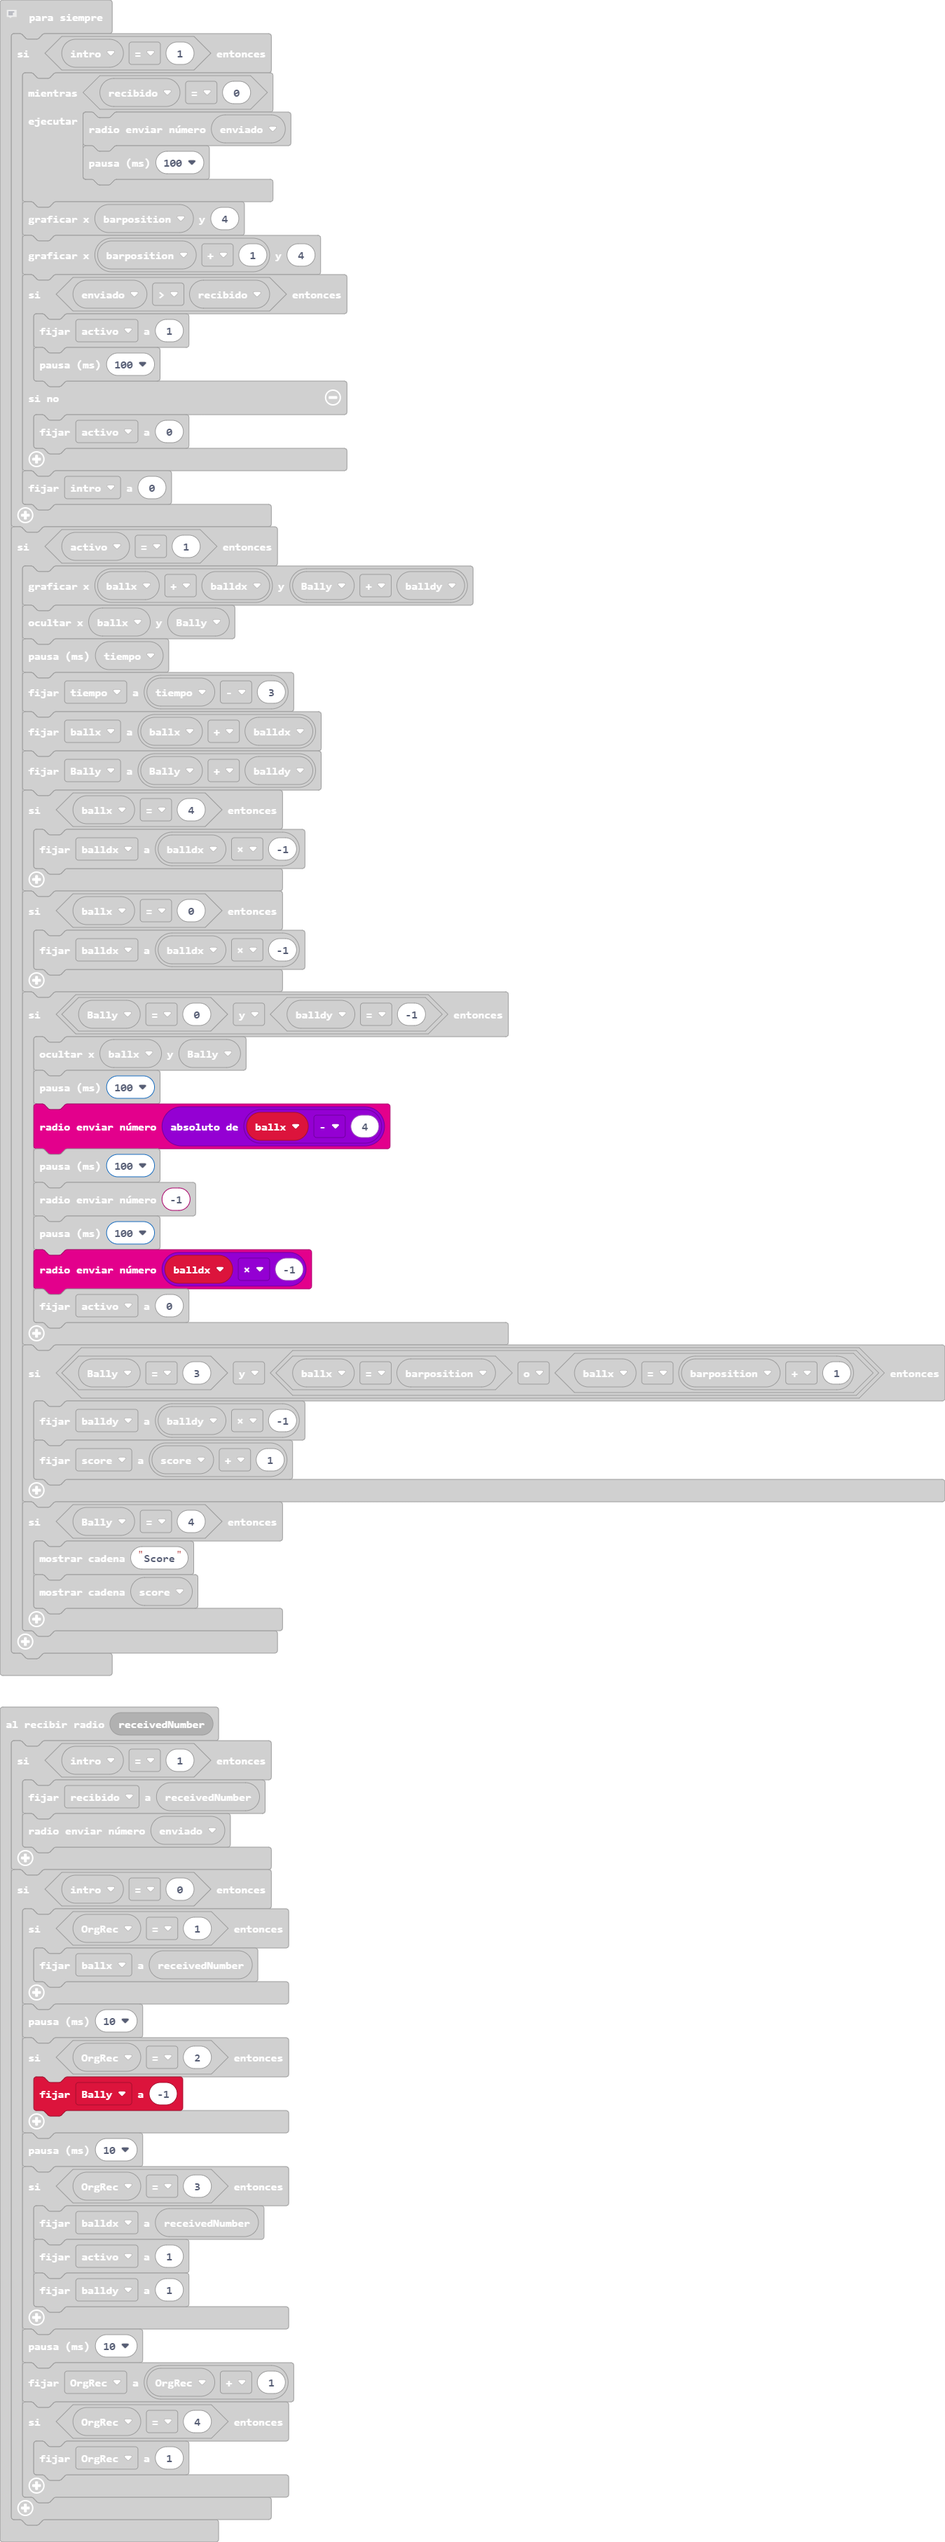
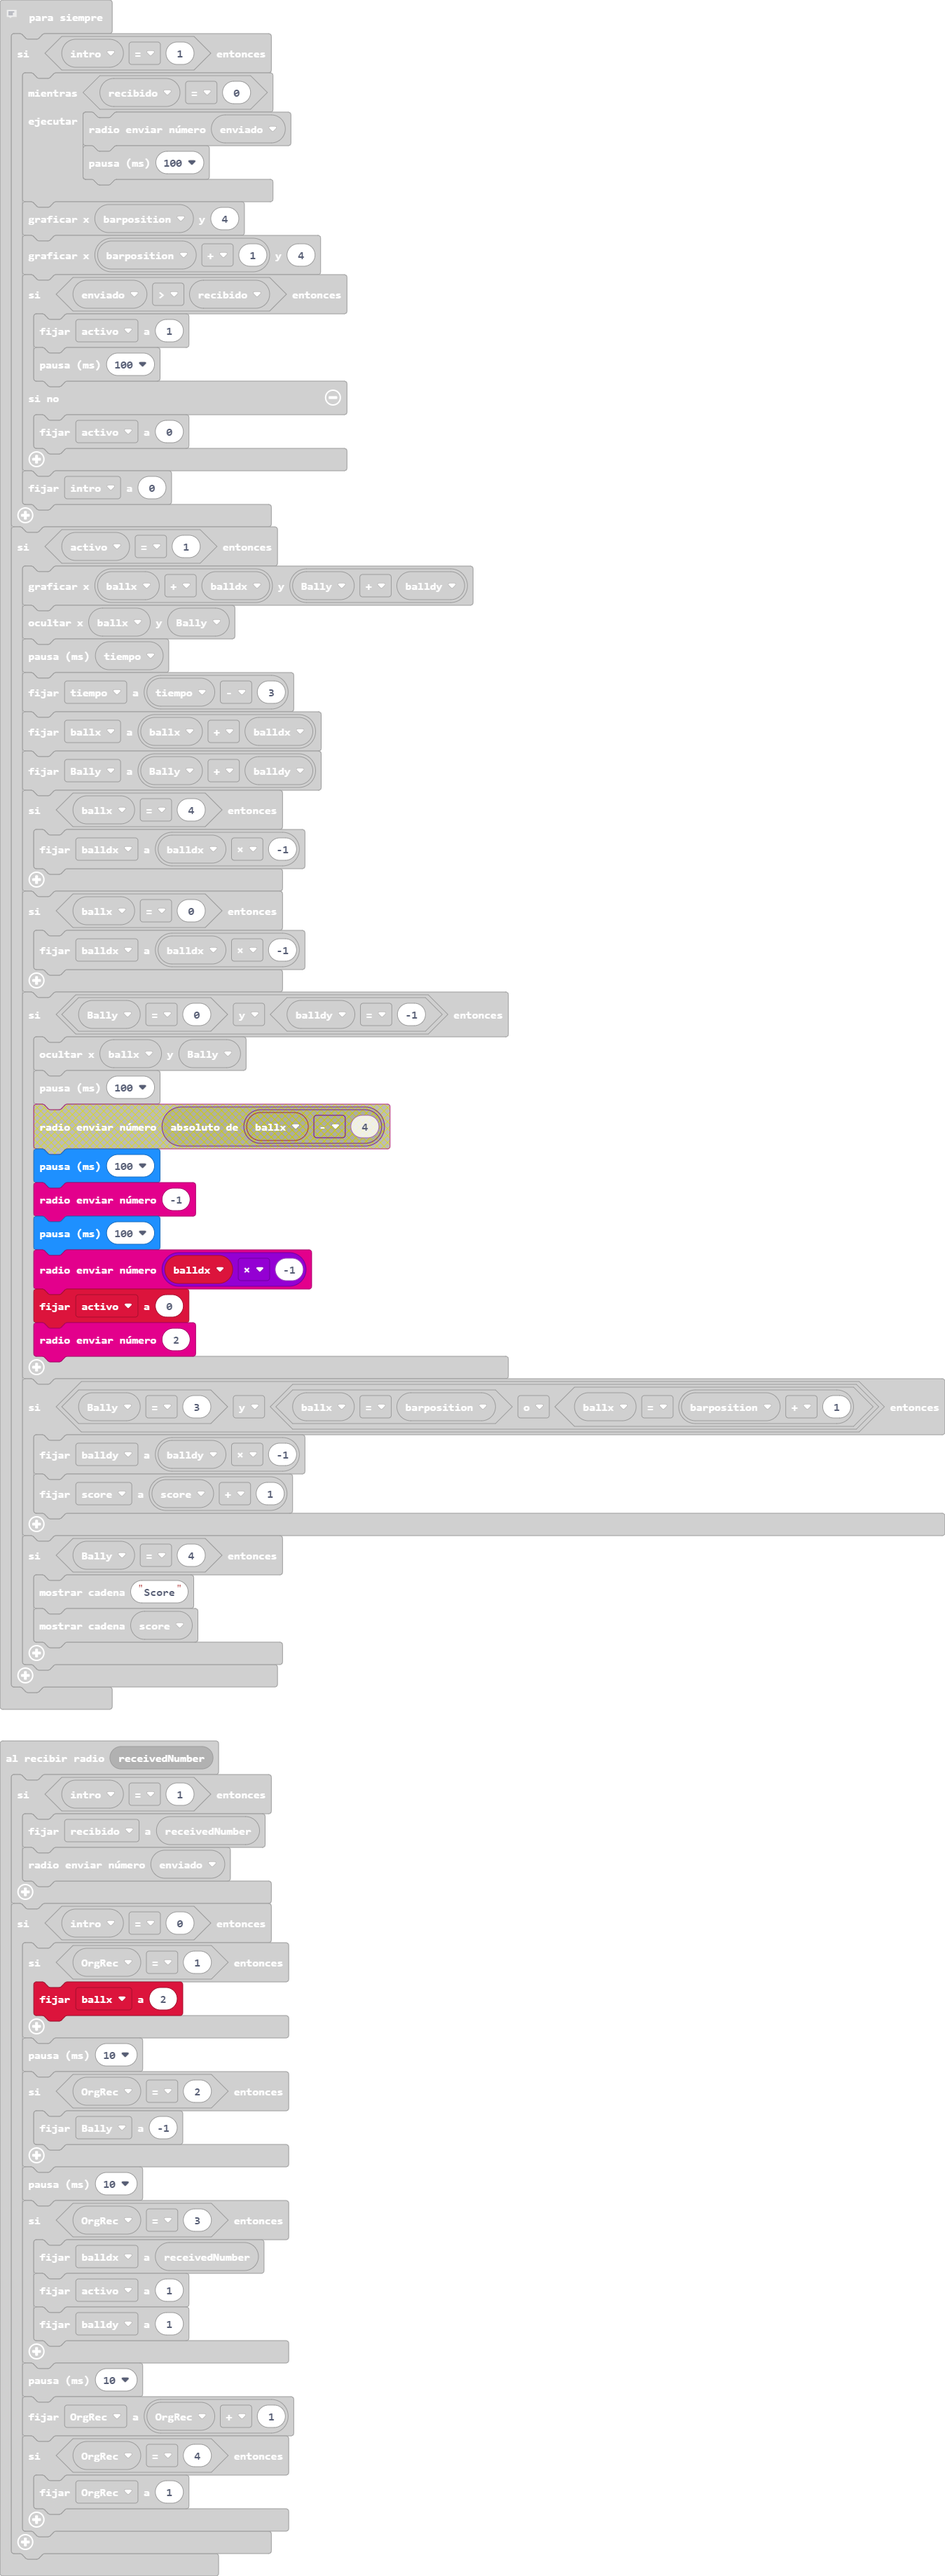
CASI CASI EDICION DEFINITIVA

Changed region(s): [[0.0, 0.0, 1.0, 0.9653]]

diff --git a/main.ts b/main.ts
@@ -8,7 +8,7 @@ radio.onReceivedNumber(function (receivedNumber) {
     }
     if (intro == 0) {
         if (OrgRec == 1) {
-            ballx = receivedNumber
+            ballx = 2
         }
         basic.pause(10)
         if (OrgRec == 2) {
@@ -100,7 +100,7 @@ basic.forever(function () {
         if (Bally == 0 && balldy == -1) {
             led.unplot(ballx, Bally)
             basic.pause(100)
-            radio.sendNumber(Math.abs(ballx - 4))
+            radio.sendNumber(2)
             basic.pause(100)
             radio.sendNumber(-1)
             basic.pause(100)
